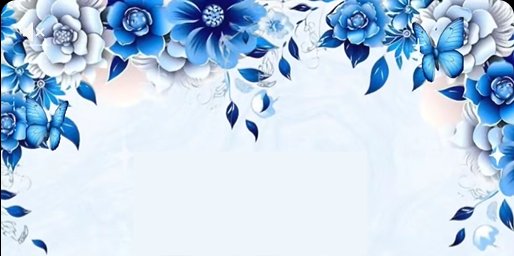
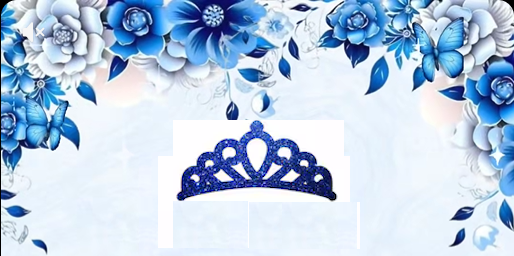
Marco floral fijo con recorte al hacer scroll y varios ajustes finos
FlowerFrameComponent saca el marco superior/inferior del hero y lo deja
fijo en pantalla; al hacer scroll ambos se recortan a la mitad hacia el
centro y recuperan su tamano al volver arriba (mismo scroll bidireccional
que ahora tambien usan las mariposas). Se corrige un bug donde el scroll
restaurado por el navegador disparaba la salida de las mariposas de
inmediato. Ademas: fecha en azul y con mayuscula solo en dia/mes, fuente
de nombres por defecto Dancing Script, se retira el panel de personalizacion
temporal, y se actualizan las imagenes de puertas/marco superior.

Changed region(s): [[0.3424, 0.4688, 0.6537, 0.7812]]

diff --git a/src/app/components/hero.component.ts b/src/app/components/hero.component.ts
@@ -20,22 +20,6 @@ const PASO_LETRA_MS = 70;
       <!-- Overlay translúcido -->
       <div class="absolute inset-0 bg-white/30 backdrop-blur-[2px]"></div>
 
-      <!-- Marco floral superior: se desvanece en su borde inferior para fundirse con el fondo -->
-      <img
-        src="assets/img/FondoSuperiorBlanco.png"
-        alt=""
-        aria-hidden="true"
-        class="pointer-events-none absolute inset-x-0 top-0 max-h-[40svh] w-full object-cover object-top select-none [mask-image:linear-gradient(to_bottom,black_65%,transparent)]"
-      />
-
-      <!-- Marco floral inferior: se desvanece en su borde superior para fundirse con el fondo -->
-      <img
-        src="assets/img/FondoInferiorBlanco.png"
-        alt=""
-        aria-hidden="true"
-        class="pointer-events-none absolute inset-x-0 bottom-0 max-h-[40svh] w-full object-cover object-bottom select-none [mask-image:linear-gradient(to_top,black_65%,transparent)]"
-      />
-
       <div class="relative flex flex-col items-center gap-6">
         <p
           class="flex text-sm font-light tracking-[0.4em] text-tinta-suave uppercase"
@@ -72,7 +56,7 @@ const PASO_LETRA_MS = 70;
           [class.fecha-intro--visible]="intro.abriendo()"
         >
           <span class="h-px w-12 bg-acento-suave"></span>
-          <p class="font-serif text-xl tracking-wide capitalize">{{ fechaLegible }}</p>
+          <p class="font-serif text-xl tracking-wide text-blue-800">{{ fechaLegible }}</p>
           <span class="h-px w-12 bg-acento-suave"></span>
         </div>
 
@@ -99,17 +83,30 @@ export class HeroComponent {
   protected readonly config = INVITATION_CONFIG;
   protected readonly intro = inject(IntroService);
 
-  protected readonly fechaLegible = new Intl.DateTimeFormat('es-MX', {
-    weekday: 'long',
-    day: 'numeric',
-    month: 'long',
-    year: 'numeric',
-  }).format(INVITATION_CONFIG.fechaEvento);
+  protected readonly fechaLegible = this.construirFechaLegible(INVITATION_CONFIG.fechaEvento);
 
   /** Letras de "Mis XV Años"; se revelan de derecha a izquierda al abrir los portones. */
   protected readonly etiquetaLetras = ETIQUETA_INTRO.split('');
 
   protected retrasoLetra(indice: number): number {
     return (this.etiquetaLetras.length - 1 - indice) * PASO_LETRA_MS;
+  }
+
+  /** "sábado, 8 de agosto de 2026" -> "Sábado, 8 de Agosto de 2026" (día y mes con mayúscula inicial). */
+  private construirFechaLegible(fecha: Date): string {
+    const partes = new Intl.DateTimeFormat('es-MX', {
+      weekday: 'long',
+      day: 'numeric',
+      month: 'long',
+      year: 'numeric',
+    }).formatToParts(fecha);
+
+    return partes
+      .map((parte) =>
+        parte.type === 'weekday' || parte.type === 'month'
+          ? parte.value.charAt(0).toUpperCase() + parte.value.slice(1)
+          : parte.value,
+      )
+      .join('');
   }
 }

diff --git a/src/app/app.ts b/src/app/app.ts
@@ -2,6 +2,7 @@ import { ChangeDetectionStrategy, Component, inject } from '@angular/core';
 import { ToastModule } from 'primeng/toast';
 import { IntroGateComponent } from './components/intro-gate.component';
 import { ButterflyFlockComponent } from './components/butterfly-flock.component';
+import { FlowerFrameComponent } from './components/flower-frame.component';
 import { HeroComponent } from './components/hero.component';
 import { AudioPlayerComponent } from './components/audio-player.component';
 import { CountdownComponent } from './components/countdown.component';
@@ -10,7 +11,6 @@ import { LocationsComponent } from './components/locations.component';
 import { DressCodeComponent } from './components/dress-code.component';
 import { GiftsComponent } from './components/gifts.component';
 import { RsvpComponent } from './components/rsvp.component';
-import { ThemeTogglerComponent } from './components/theme-toggler.component';
 import { RevealOnScrollDirective } from './directives/reveal-on-scroll.directive';
 import { ThemeService } from './services/theme.service';
 import { INVITATION_CONFIG } from './invitation-config';
@@ -21,6 +21,7 @@ import { INVITATION_CONFIG } from './invitation-config';
     ToastModule,
     IntroGateComponent,
     ButterflyFlockComponent,
+    FlowerFrameComponent,
     HeroComponent,
     AudioPlayerComponent,
     CountdownComponent,
@@ -29,7 +30,6 @@ import { INVITATION_CONFIG } from './invitation-config';
     DressCodeComponent,
     GiftsComponent,
     RsvpComponent,
-    ThemeTogglerComponent,
     RevealOnScrollDirective,
   ],
   changeDetection: ChangeDetectionStrategy.OnPush,

diff --git a/src/app/components/flower-frame.component.ts b/src/app/components/flower-frame.component.ts
@@ -1,0 +1,34 @@
+import { ChangeDetectionStrategy, Component, inject } from '@angular/core';
+import { IntroService } from '../services/intro.service';
+
+/**
+ * Marco floral fijo (arriba y abajo) que permanece en pantalla aunque el
+ * usuario haga scroll, en vez de desplazarse junto con el hero. Al hacer
+ * scroll, ambos marcos se recortan a la mitad hacia el centro (arriba pierde
+ * su mitad superior, abajo pierde su mitad inferior) y recuperan su tamaño
+ * completo al regresar arriba.
+ */
+@Component({
+  selector: 'app-flower-frame',
+  standalone: true,
+  changeDetection: ChangeDetectionStrategy.OnPush,
+  template: `
+    <img
+      src="assets/img/FondoSuperiorBlanco.png"
+      alt=""
+      aria-hidden="true"
+      class="marco-superior pointer-events-none fixed inset-x-0 top-0 z-30 max-h-[28.8svh] w-full select-none object-cover object-top [mask-image:linear-gradient(to_bottom,black_65%,transparent)]"
+      [class.marco-superior--recortado]="intro.desplazado()"
+    />
+    <img
+      src="assets/img/FondoInferiorBlanco.png"
+      alt=""
+      aria-hidden="true"
+      class="marco-inferior pointer-events-none fixed inset-x-0 bottom-0 z-30 max-h-[28.8svh] w-full select-none object-cover object-bottom [mask-image:linear-gradient(to_top,black_65%,transparent)]"
+      [class.marco-inferior--recortado]="intro.desplazado()"
+    />
+  `,
+})
+export class FlowerFrameComponent {
+  protected readonly intro = inject(IntroService);
+}

diff --git a/src/app/components/butterfly.component.ts b/src/app/components/butterfly.component.ts
@@ -79,7 +79,7 @@ export class ButterflyComponent implements OnInit, OnDestroy {
 
       if (debeSalir) {
         this.yaVolando = true;
-        this.iniciarSalida();
+        this.iniciarSalida(DURACION_SALIDA_S);
         return;
       }
 
@@ -100,15 +100,15 @@ export class ButterflyComponent implements OnInit, OnDestroy {
     clearTimeout(this.temporizador);
   }
 
-  private iniciarSalida(): void {
+  private iniciarSalida(duracionSegundos: number): void {
     clearTimeout(this.temporizador);
 
     this.volando.set(true);
-    this.duracion.set(DURACION_SALIDA_S);
+    this.duracion.set(duracionSegundos);
     this.angulo.set(this.posicionAleatoria(-15, 15));
     this.x.set(this.posicionAleatoria(-10, 110));
     this.y.set(-25);
-    this.temporizador = setTimeout(() => this.visible.set(false), DURACION_SALIDA_S * 1000);
+    this.temporizador = setTimeout(() => this.visible.set(false), duracionSegundos * 1000);
   }
 
   private volarASiguientePunto(): void {

diff --git a/src/app/services/intro.service.ts b/src/app/services/intro.service.ts
@@ -17,14 +17,15 @@ export class IntroService {
   readonly abriendo = signal(this.prefiereMenosMovimiento);
   readonly portonesVisibles = signal(!this.prefiereMenosMovimiento);
   /** Se pone en true la primera vez que el usuario hace scroll hacia abajo. */
+  /** true mientras el usuario está desplazado hacia abajo; vuelve a false al regresar arriba. */
   readonly desplazado = signal(false);
 
   constructor() {
+    // Se compara contra la posición inicial (no un valor absoluto) por si el
+    // navegador restaura el scroll de una visita anterior al recargar.
+    const scrollInicial = window.scrollY;
     const alHacerScroll = () => {
-      if (window.scrollY > 40) {
-        this.desplazado.set(true);
-        window.removeEventListener('scroll', alHacerScroll);
-      }
+      this.desplazado.set(window.scrollY - scrollInicial > 40);
     };
     window.addEventListener('scroll', alHacerScroll, { passive: true });
 

diff --git a/src/app/services/theme.service.ts b/src/app/services/theme.service.ts
@@ -98,7 +98,7 @@ export class ThemeService {
   readonly paleta = signal<OpcionPaleta>(this.buscar(this.paletas, 'oceano'));
   readonly fuente = signal<OpcionFuente>(this.buscar(this.fuentes, 'parisienne'));
   readonly fondo = signal<OpcionFondo>(this.buscar(this.fondos, 'aurora'));
-  readonly fuenteNombres = signal<OpcionFuente>(this.buscar(this.fuentesNombres, 'sacramento'));
+  readonly fuenteNombres = signal<OpcionFuente>(this.buscar(this.fuentesNombres, 'dancing'));
   readonly colorNombres = signal<OpcionColorTexto>(this.buscar(this.coloresNombres, 'tinta'));
 
   /** Clases combinadas para el contenedor raíz. */

diff --git a/src/styles.css b/src/styles.css
@@ -439,3 +439,27 @@ body {
     transform: scaleX(0.7);
   }
 }
+
+/* Marco floral superior: se recorta a la mitad al hacer scroll (FlowerFrameComponent) */
+.marco-superior {
+  transition:
+    max-height 1s ease-out,
+    object-position 1s ease-out;
+}
+
+.marco-superior--recortado {
+  max-height: 14.4svh;
+  object-position: bottom;
+}
+
+/* Marco floral inferior: espejo del superior, se recorta hacia el centro al hacer scroll */
+.marco-inferior {
+  transition:
+    max-height 1s ease-out,
+    object-position 1s ease-out;
+}
+
+.marco-inferior--recortado {
+  max-height: 14.4svh;
+  object-position: top;
+}

diff --git a/src/app/app.html b/src/app/app.html
@@ -3,7 +3,7 @@
   <p-toast position="top-center" />
   <app-intro-gate />
   <app-butterfly-flock />
-  <app-theme-toggler />
+  <app-flower-frame />
   <app-audio-player />
 
   <app-hero />
